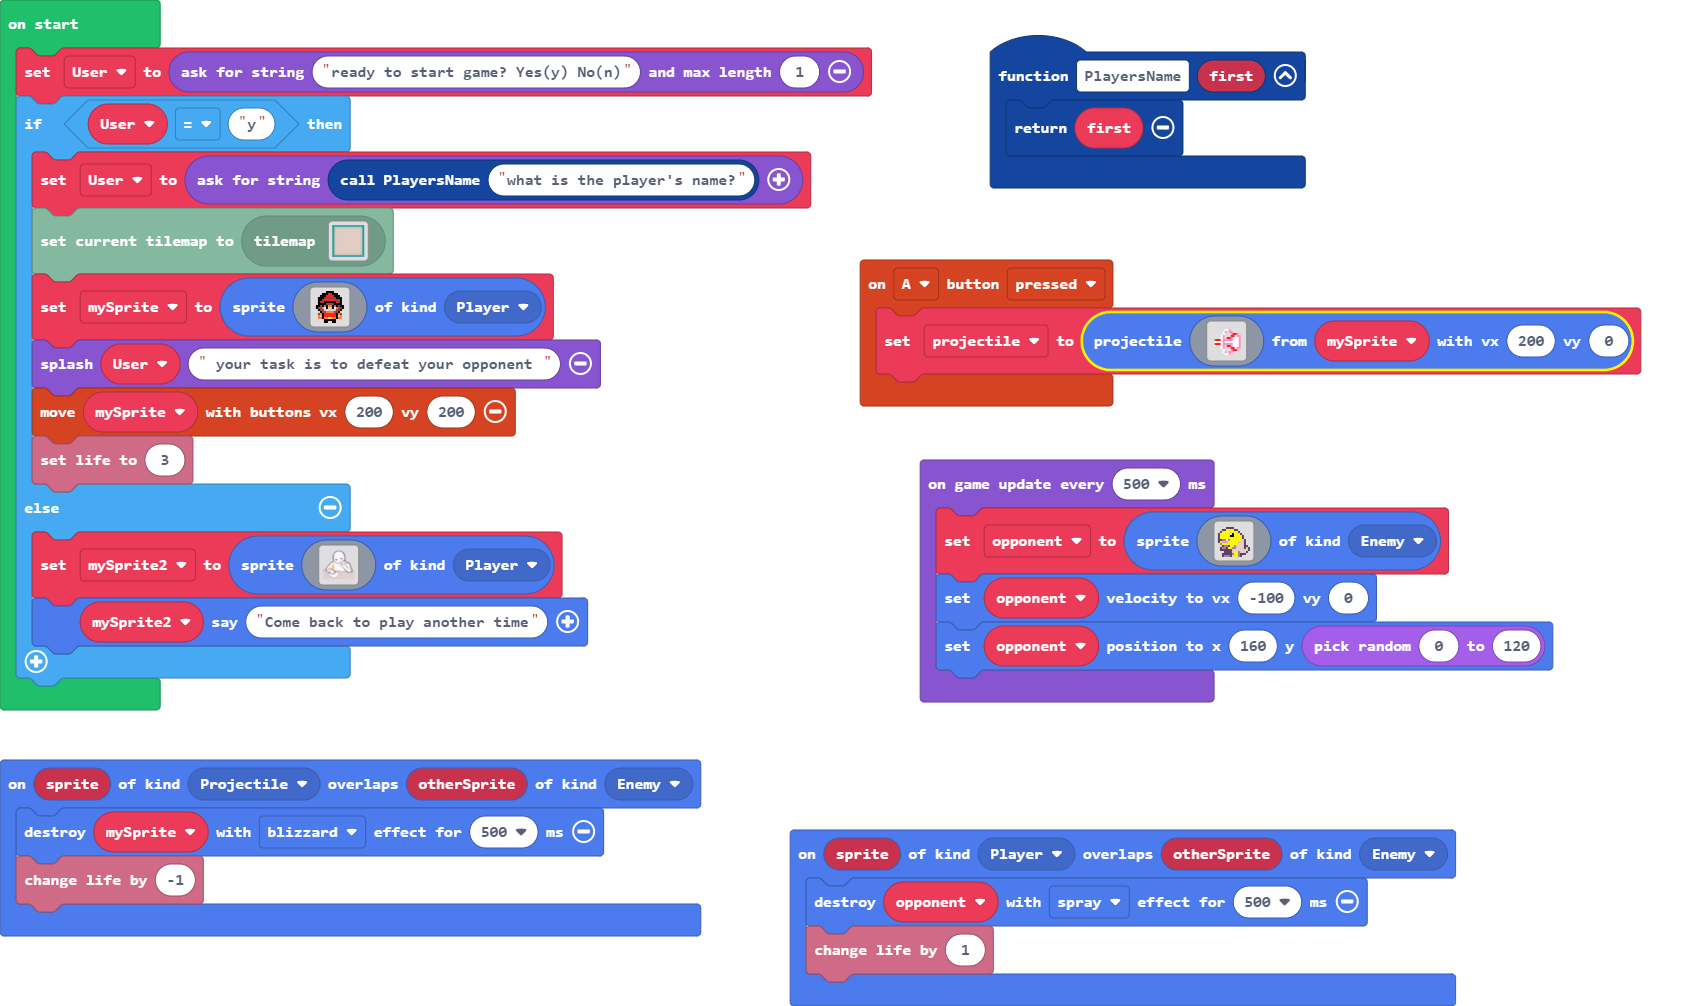
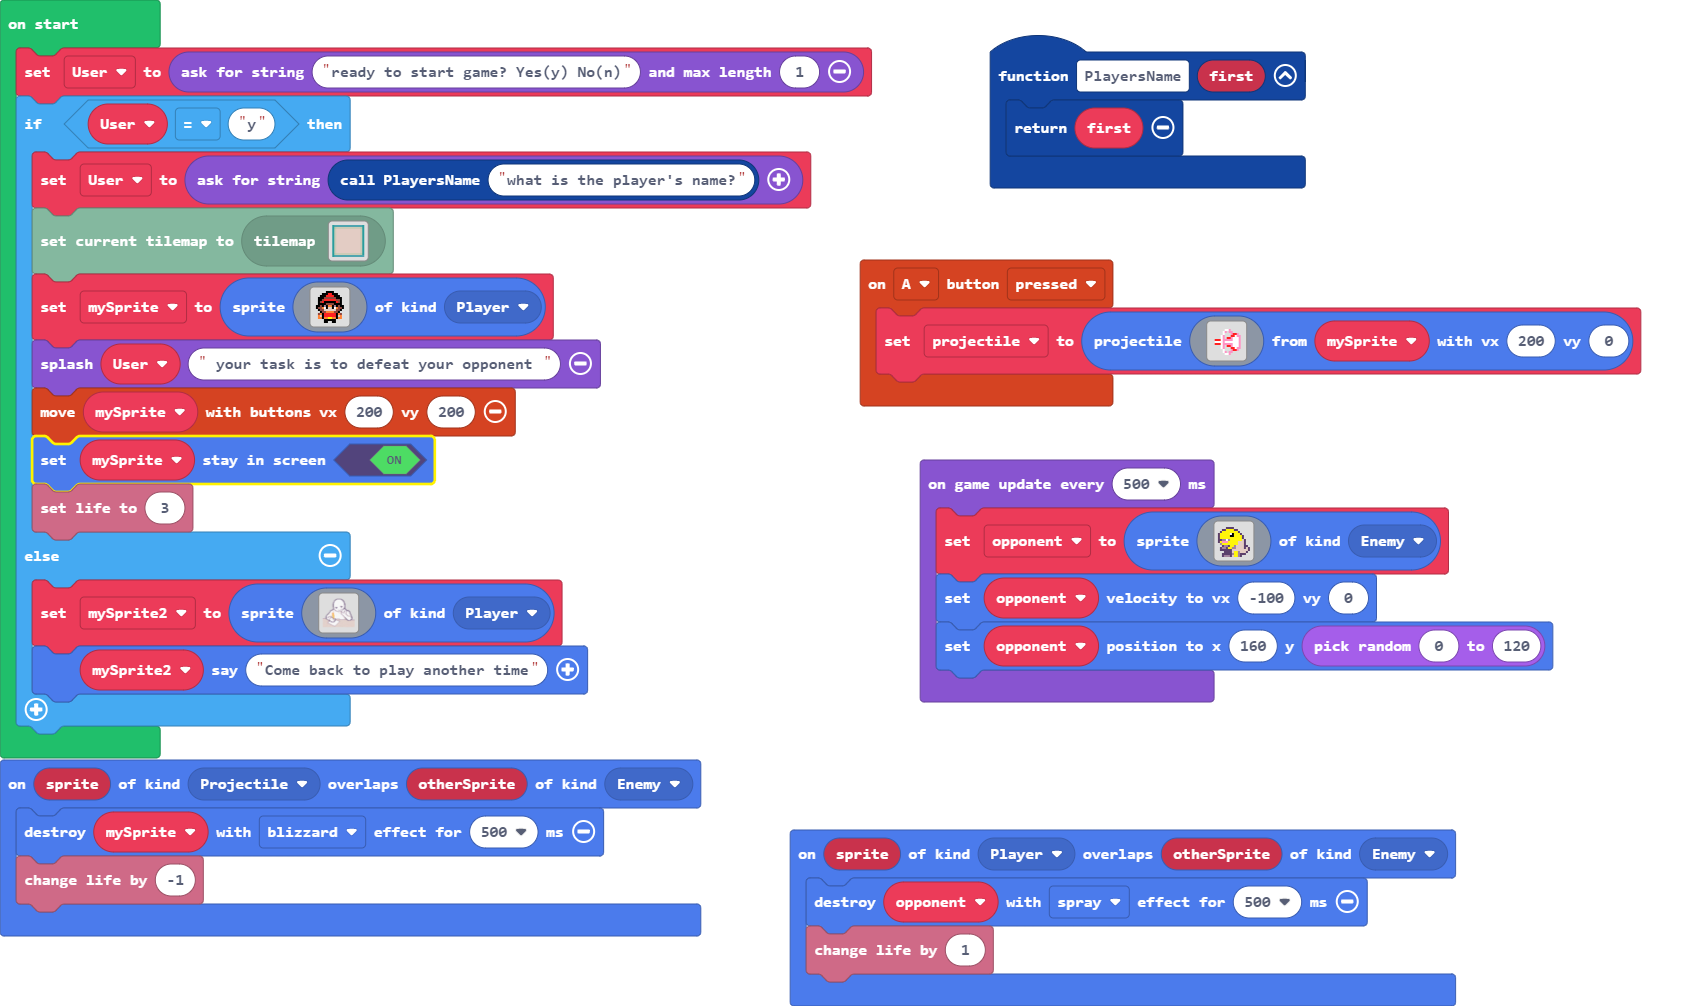
Update main.blocks, main.ts, tilemap.g.jres, tilemap.g.ts

Changed region(s): [[0.0, 0.4314, 0.3686, 0.7704], [0.645, 0.3082, 0.9522, 0.3698]]

diff --git a/tilemap.g.ts b/tilemap.g.ts
@@ -2,9 +2,48 @@
 namespace myTiles {
     //% fixedInstance jres blockIdentity=images._tile
     export const transparency16 = image.ofBuffer(hex``);
+    //% fixedInstance jres blockIdentity=images._tile
+    export const transparency8 = image.ofBuffer(hex``);
 
     helpers._registerFactory("tilemap", function(name: string) {
         switch(helpers.stringTrim(name)) {
+            case "level2":
[1 lines of base64/hex data omitted]
+. . . . . . . . . . . . . . . . . . . . 
+. . . . . . . . . . . . . . . . . . . . 
+. . . . . . . . . . . . . . . . . . . . 
+. . . . . . . . . . . . . . . . . . . . 
+. . . . . . . . . . . . . . . . . . . . 
+. . . . . . . . . . . . . . . . . . . . 
+. . . . . . . . . . . . . . . . . . . . 
+. . . . . . . . . . . . . . . . . . . . 
+. . . . . . . . . . . . . . . . . . . . 
+. . . . . . . . . . . . . . . . . . . . 
+. . . . . . . . . . . . . . . . . . . . 
+. . . . . . . . . . . . . . . . . . . . 
+. . . . . . . . . . . . . . . . . . . . 
+. . . . . . . . . . . . . . . . . . . . 
+. . . . . . . . . . . . . . . . . . . . 
+`, [myTiles.transparency8,sprites.castle.tileGrass2], TileScale.Eight);
+            case "level3":
+            case "level3":return tiles.createTilemap(hex`1000100000000000000000000000000000000000000000000000000000000000000000000000000000000000000000000000000000000000000000000000000000000000000000000000000000000000000000000000000000000000000000000000000000000000000000000000000000000000000000000000000000000000000000000000000000000000000000000000000000000000000000000000000000000000000000000000000000000000000000000000000000000000000000000000000000000000000000000000000000000000000000000000000000000000000000000000000000000000000000000000000000000000000000000000000000000000`, img`
+. . . . . . . . . . . . . . . . 
+. . . . . . . . . . . . . . . . 
+. . . . . . . . . . . . . . . . 
+. . . . . . . . . . . . . . . . 
+. . . . . . . . . . . . . . . . 
+. . . . . . . . . . . . . . . . 
+. . . . . . . . . . . . . . . . 
+. . . . . . . . . . . . . . . . 
+. . . . . . . . . . . . . . . . 
+. . . . . . . . . . . . . . . . 
+. . . . . . . . . . . . . . . . 
+. . . . . . . . . . . . . . . . 
+. . . . . . . . . . . . . . . . 
+. . . . . . . . . . . . . . . . 
+. . . . . . . . . . . . . . . . 
+. . . . . . . . . . . . . . . . 
+`, [myTiles.transparency16], TileScale.Sixteen);
             case "level1":
[1 lines of base64/hex data omitted]
 . . . . . . . . . . . . . . . . 
@@ -31,6 +70,7 @@ namespace myTiles {
     helpers._registerFactory("tile", function(name: string) {
         switch(helpers.stringTrim(name)) {
             case "transparency16":return transparency16;
+            case "transparency8":return transparency8;
         }
         return null;
     })

diff --git a/main.ts b/main.ts
@@ -57,6 +57,7 @@ if (User == "y") {
         `, SpriteKind.Player)
     game.splash(User, " your task is to defeat your opponent ")
     controller.moveSprite(mySprite, 200, 200)
+    mySprite.setStayInScreen(true)
     info.setLife(3)
 } else {
     mySprite2 = sprites.create(img`
